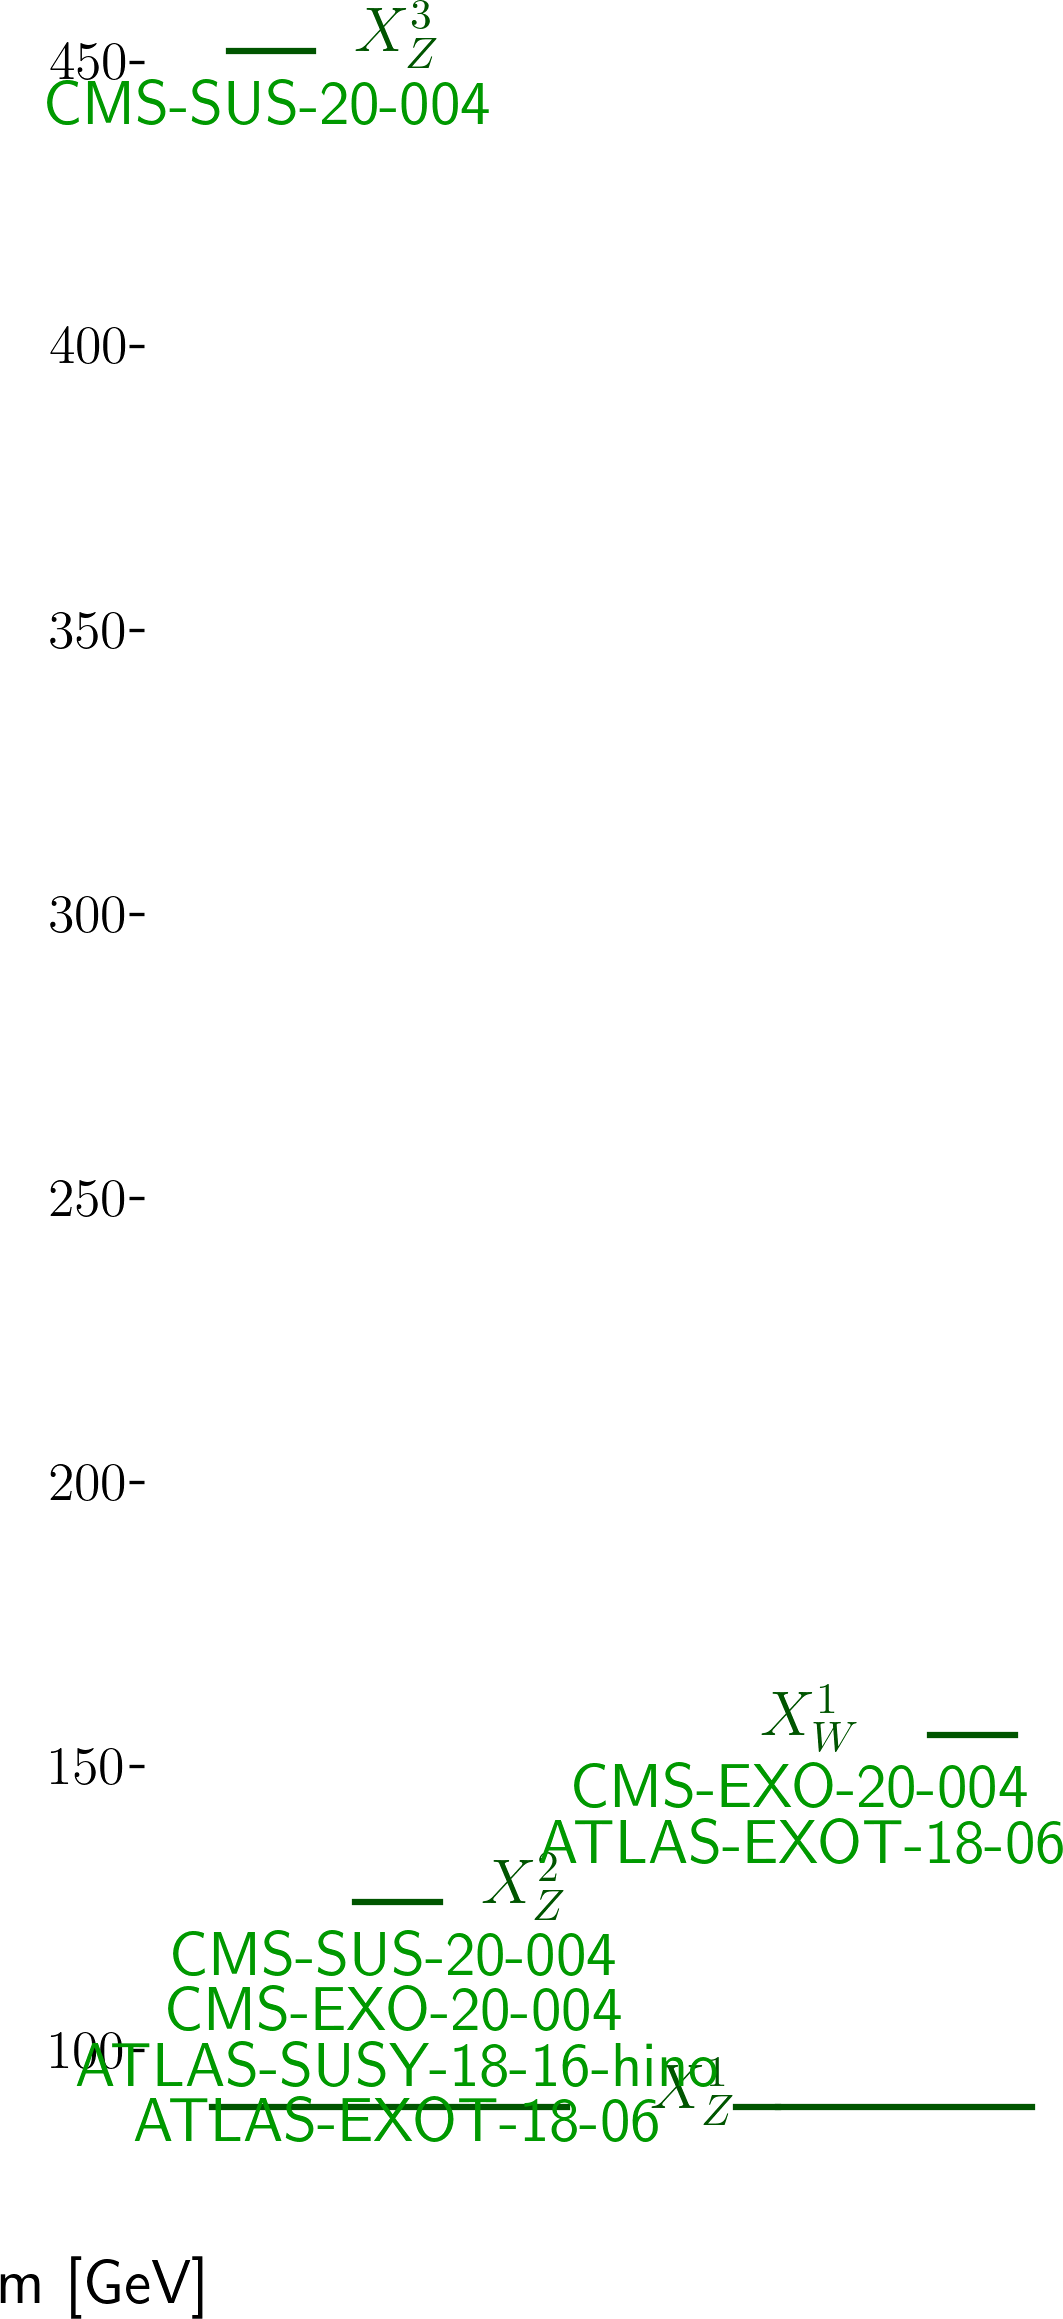
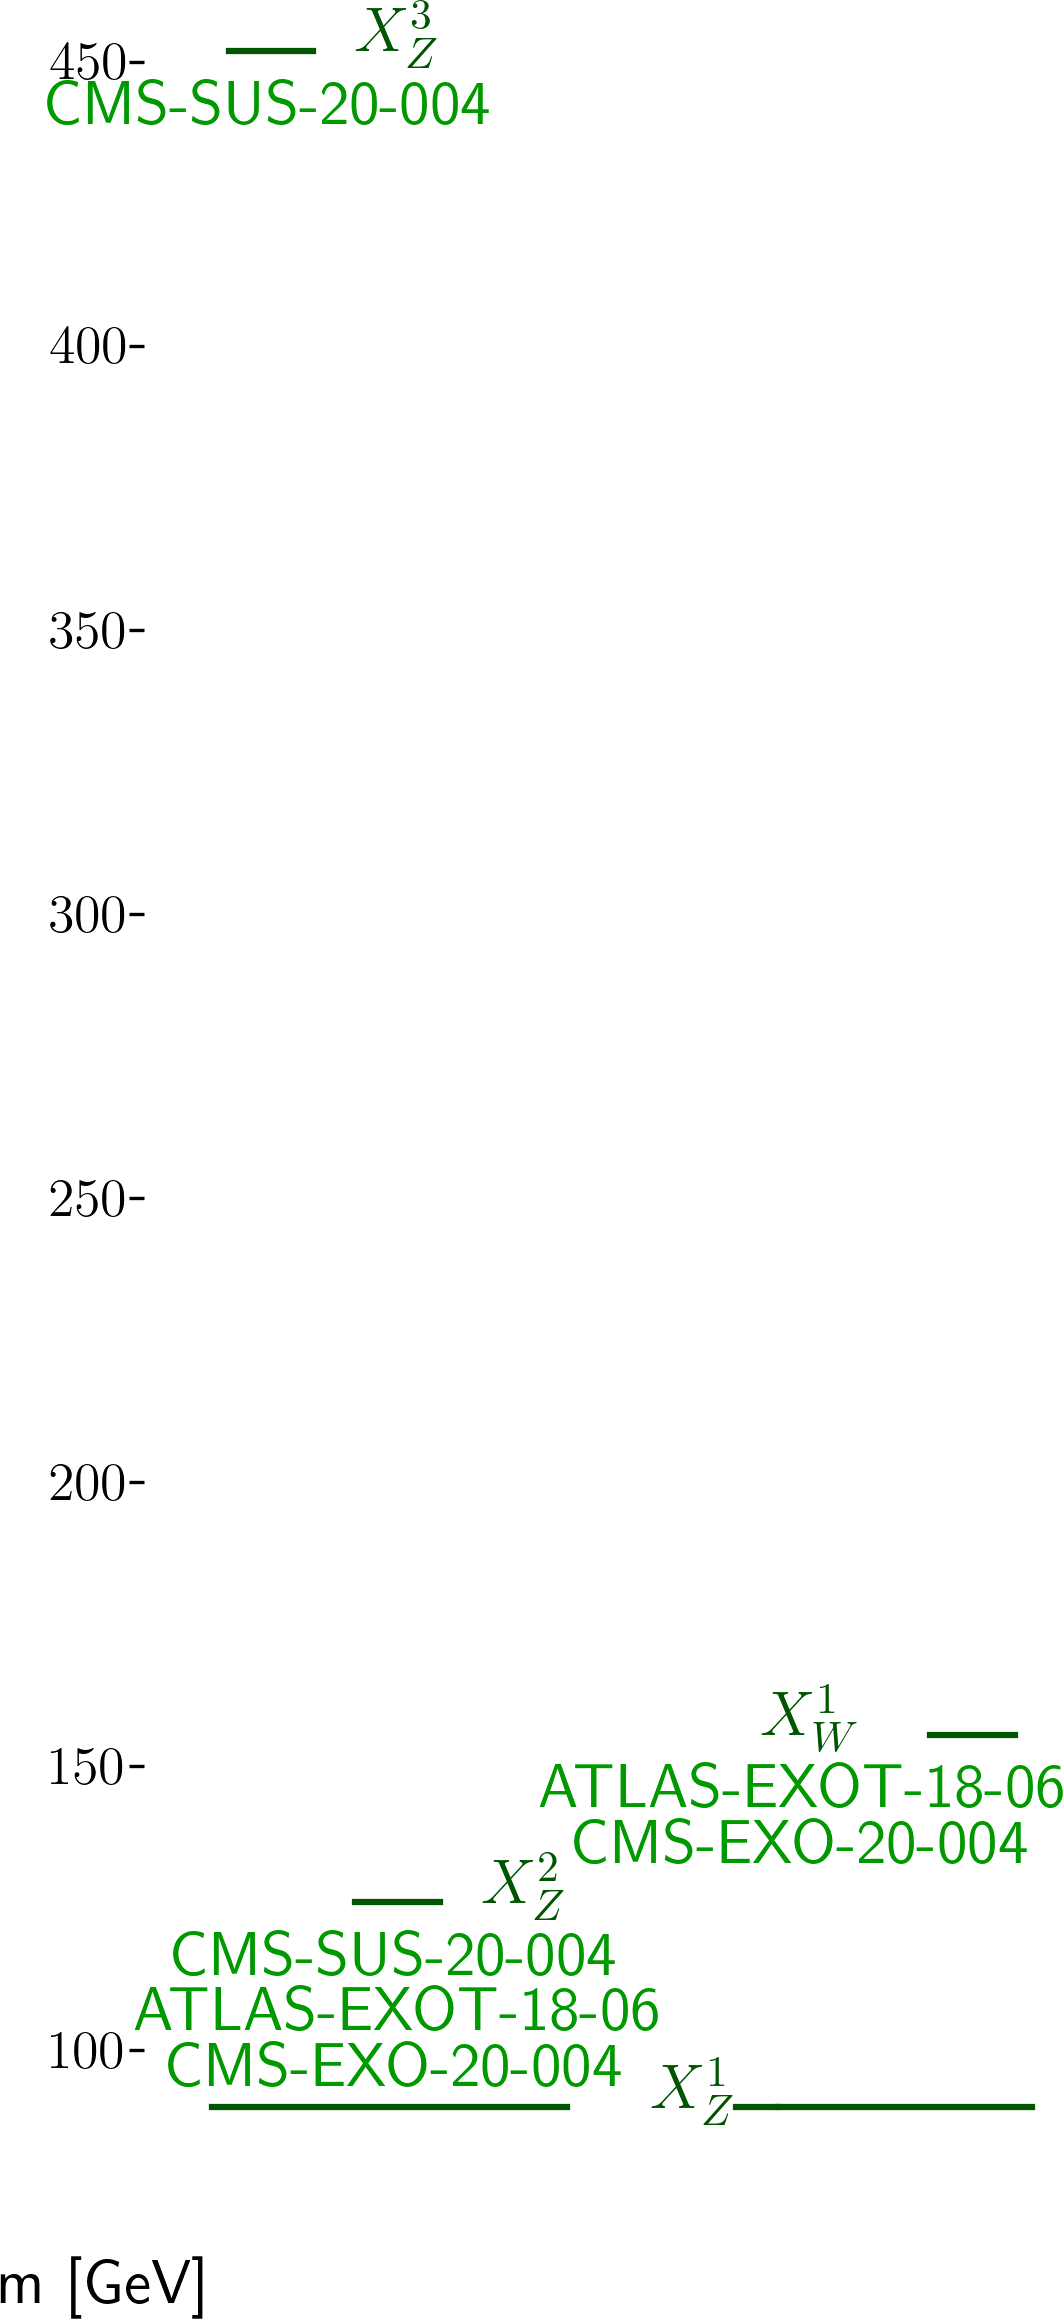
automated update by plotHiscore.py to rundir8_310:     K=None TL=33.65 walkerid=uphi

Changed region(s): [[0.0621, 0.8383, 0.683, 0.9314], [0.4967, 0.7451, 1.0, 0.8072]]

diff --git a/protomodels/rundir8_310/index.html b/protomodels/rundir8_310/index.html
@@ -1,23 +1,24 @@
 <html>
 <body>
 <center>
-<table><td><h1>Current best protomodel: <i>K</i>=None, <i>TL</i>=34.47</h1><td><img height=60px src=https://smodels.github.io//protomodels/logos/protomodel_lego.png></table>
+<table><td><h1>Current best protomodel: <i>K</i>=None, <i>TL</i>=33.65</h1><td><img height=60px src=https://smodels.github.io//protomodels/logos/protomodel_lego.png></table>
 </center>
 <b><a href=./hiscore.slha>ProtoModel</a> <a href=./pmodel.dict>(dict)</a> produced with <a href=https://smodels.github.io//docs/Validation310>database v3.1.0</a>, combination strategy <a href=./matrix.png>aggressive</a> in walker uphi step 1203.</b> <br>
 <table width=80%>
 <tr><td>
-<br><b>Critics:</b> failed UL-based critic (2/4)<br>
-<br><b>No LLHD Critic results!!</b><br><br><b>7 predictions available. Highest r values are:</b><br><ul>
-<li><a href=https://atlas.web.cern.ch/Atlas/GROUPS/PHYSICS/PAPERS/EXOT-2018-06/>ATLAS-EXOT-2018-06</a>:EM8:TChiISR,TChiZISRll,TChiZISRqq r=1.63, r<sub>exp</sub>=1.77<br>
-<li><a href=https://atlas.web.cern.ch/Atlas/GROUPS/PHYSICS/PAPERS/SUSY-2018-16/>ATLAS-SUSY-2018-16-hino</a>:SR_ewk_2l_high:TChiZoff r=1.44, r<sub>exp</sub>=1.36<br>
-<li><a href=http://cms-results.web.cern.ch/cms-results/public-results/publications/SUS-16-048/index.html>CMS-SUS-16-048</a>:Ewkino_highMET_M_10to20:TChiWZoff r=1.11, r<sub>exp</sub>=0.94<br>
-<li><a href=https://atlas.web.cern.ch/Atlas/GROUPS/PHYSICS/PAPERS/SUSY-2018-16/>ATLAS-SUSY-2018-16</a>:CR_ewk_top_low:TChiWZoff r=0.57, r<sub>exp</sub>=0.57<br>
+<br><b>Critics:</b> passed both critics<br>
+<br><b>LLHD Critic:</b> CMS-EXO-20-004:combined, ATLAS-EXOT-2018-06:EM8, CMS-SUS-20-004:combined:: <span style='color: darkgreen;'>robs=0.99, rexp=3.27</span><br>
+<br><b>4 predictions available. Highest r values are:</b><br><ul>
+<li><a href=https://atlas.web.cern.ch/Atlas/GROUPS/PHYSICS/PAPERS/EXOT-2018-06/>ATLAS-EXOT-2018-06</a>:EM8:TChiISR,TChiZISRqq r=1.60, r<sub>exp</sub>=1.74<br>
+<li><a href=http://cms-results.web.cern.ch/cms-results/public-results/publications/SUS-20-004/>CMS-SUS-20-004</a>:ul:TChiHH r=0.42, r<sub>exp</sub>=0.83<br>
+<li><a href=http://cms-results.web.cern.ch/cms-results/public-results/publications/EXO-20-004/>CMS-EXO-20-004</a>:SR_2018_16:TChiISR,TChiZISRqq r=0.31, r<sub>exp</sub>=0.50<br>
+<li><a href=https://atlas.web.cern.ch/Atlas/GROUPS/PHYSICS/PAPERS/SUSY-2018-41/>ATLAS-SUSY-2018-41</a>:SR-2B2Q-Vh:TChiHH r=0.01, r<sub>exp</sub>=0.01<br>
 </ul>
-<td><img width=600px src=./texdoc.png?1764422474>
-<br><span style='font-size: smaller; color: darkred;'>Last updated: Sat Nov 29 14:21:14 2025</span>
+<td><img width=600px src=./texdoc.png?1764423846>
+<br><span style='font-size: smaller; color: darkred;'>Last updated: Sat Nov 29 14:44:06 2025</span>
 </table><table style="width:80%">
-<td width=45%><img height=580px src=./ruler.png?1764422474><td width=55%><img height=220px src=./decays.png?1764422474>
-<font size=-3><iframe type="text/html" height="350px" width="100%" frameborder="0" src="./rawnumbers.html?1764422474"></iframe></font>
+<td width=45%><img height=580px src=./ruler.png?1764423846><td width=55%><img height=220px src=./decays.png?1764423846>
+<font size=-3><iframe type="text/html" height="350px" width="100%" frameborder="0" src="./rawnumbers.html?1764423846"></iframe></font>
 </table>
 </body>
 </html>

diff --git a/protomodels/rundir8_310/rawnumbers.html b/protomodels/rundir8_310/rawnumbers.html
@@ -1,9 +1,8 @@
 <table>
 <tr><th>Analysis Name</th><th>Type</th><th>Dataset</th><th>Topos</th><th>Observed</th><th>Expected</th><th>Approx &sigma;</th><th>Particles</th>
 </tr>
-<tr><td><a href=http://cms-results.web.cern.ch/cms-results/public-results/publications/EXO-20-004/>CMS-EXO-20-004</a></td><td>comb</td> <td>-</td><td>TChiISR, TChiZISRll, TChiZISRqq</td><td> 2e+02 fb </td><td> 1e+02 fb</td><td style="text-align:right">4.6 &sigma;</td><td style="text-align:right">X<sup>1</sup><sub>W</sub>, X<sup>1</sup><sub>Z</sub>, X<sup>2</sup><sub>Z</sub></td></tr>
-<tr><td><a href=https://atlas.web.cern.ch/Atlas/GROUPS/PHYSICS/PAPERS/SUSY-2018-16/>ATLAS-SUSY-2018-16-hino</a></td><td>em</td> <td>SR_ewk_2l_med</td><td>TChiZoff</td><td>170</td><td>112.40 +/- 12.60</td><td style="text-align:right">3.2 &sigma;</td><td style="text-align:right">X<sup>1</sup><sub>Z</sub>, X<sup>2</sup><sub>Z</sub></td></tr>
-<tr><td><a href=https://atlas.web.cern.ch/Atlas/GROUPS/PHYSICS/PAPERS/EXOT-2018-06/>ATLAS-EXOT-2018-06</a></td><td>em</td> <td>EM10</td><td>TChiISR, TChiZISRll, TChiZISRqq</td><td>413</td><td>359.00 +/- 10.00</td><td style="text-align:right">2.5 &sigma;</td><td style="text-align:right">X<sup>1</sup><sub>W</sub>, X<sup>1</sup><sub>Z</sub>, X<sup>2</sup><sub>Z</sub></td></tr>
+<tr><td><a href=http://cms-results.web.cern.ch/cms-results/public-results/publications/EXO-20-004/>CMS-EXO-20-004</a></td><td>comb</td> <td>-</td><td>TChiISR, TChiZISRqq</td><td> 2e+02 fb </td><td> 1e+02 fb</td><td style="text-align:right">4.6 &sigma;</td><td style="text-align:right">X<sup>1</sup><sub>W</sub>, X<sup>1</sup><sub>Z</sub>, X<sup>2</sup><sub>Z</sub></td></tr>
+<tr><td><a href=https://atlas.web.cern.ch/Atlas/GROUPS/PHYSICS/PAPERS/EXOT-2018-06/>ATLAS-EXOT-2018-06</a></td><td>em</td> <td>EM10</td><td>TChiISR, TChiZISRqq</td><td>413</td><td>359.00 +/- 10.00</td><td style="text-align:right">2.5 &sigma;</td><td style="text-align:right">X<sup>1</sup><sub>W</sub>, X<sup>1</sup><sub>Z</sub>, X<sup>2</sup><sub>Z</sub></td></tr>
 <tr><td><a href=http://cms-results.web.cern.ch/cms-results/public-results/publications/SUS-20-004/>CMS-SUS-20-004</a></td><td>comb</td> <td>-</td><td>TChiHH</td><td> 0.3 fb </td><td> 0.2 fb</td><td style="text-align:right">2.1 &sigma;</td><td style="text-align:right">X<sup>3</sup><sub>Z</sub>, X<sup>2</sup><sub>Z</sub></td></tr>
 </table>
 <table style='color:grey'>
